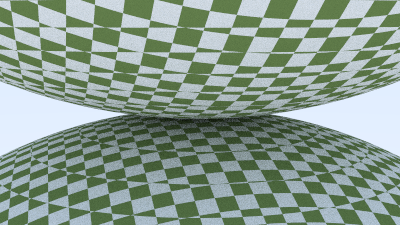
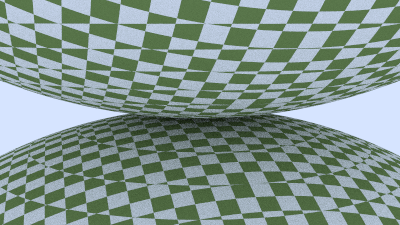
Update Checker Scale to 0.32

diff --git a/books/RayTracingTheNextWeek.html b/books/RayTracingTheNextWeek.html
@@ -1464,7 +1464,7 @@ Now add a scene with two checkered spheres, one atop the other.
     void two_spheres() {
         hittable_list world;
 
-        auto checker = make_shared<checker_texture>(0.8, color(.2, .3, .1), color(.9, .9, .9));
+        auto checker = make_shared<checker_texture>(0.32, color(.2, .3, .1), color(.9, .9, .9));
 
         world.add(make_shared<sphere>(point3(0,-10, 0), 10, make_shared<lambertian>(checker)));
         world.add(make_shared<sphere>(point3(0, 10, 0), 10, make_shared<lambertian>(checker)));

diff --git a/src/TheNextWeek/main.cc b/src/TheNextWeek/main.cc
@@ -91,7 +91,7 @@ void random_spheres() {
 void two_spheres() {
     hittable_list world;
 
-    auto checker = make_shared<checker_texture>(0.8, color(.2, .3, .1), color(.9, .9, .9));
+    auto checker = make_shared<checker_texture>(0.32, color(.2, .3, .1), color(.9, .9, .9));
 
     world.add(make_shared<sphere>(point3(0,-10, 0), 10, make_shared<lambertian>(checker)));
     world.add(make_shared<sphere>(point3(0, 10, 0), 10, make_shared<lambertian>(checker)));
